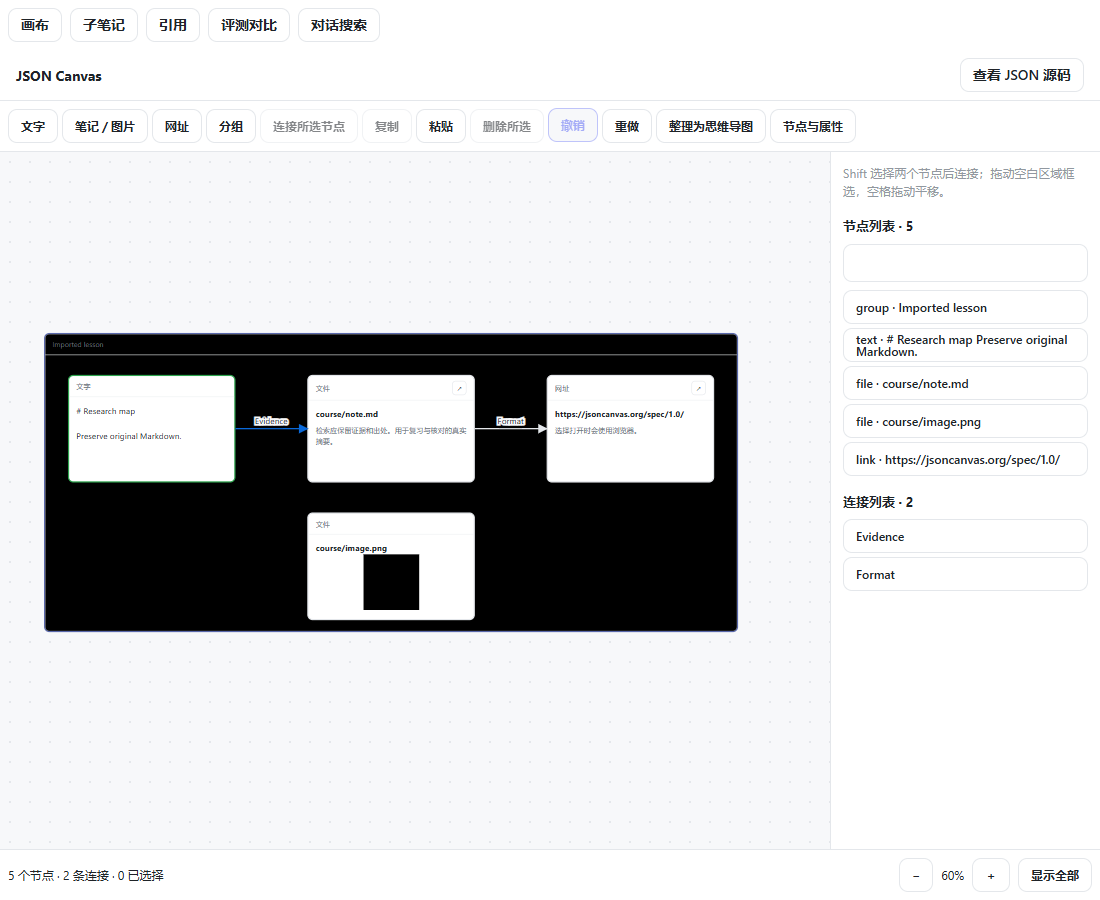
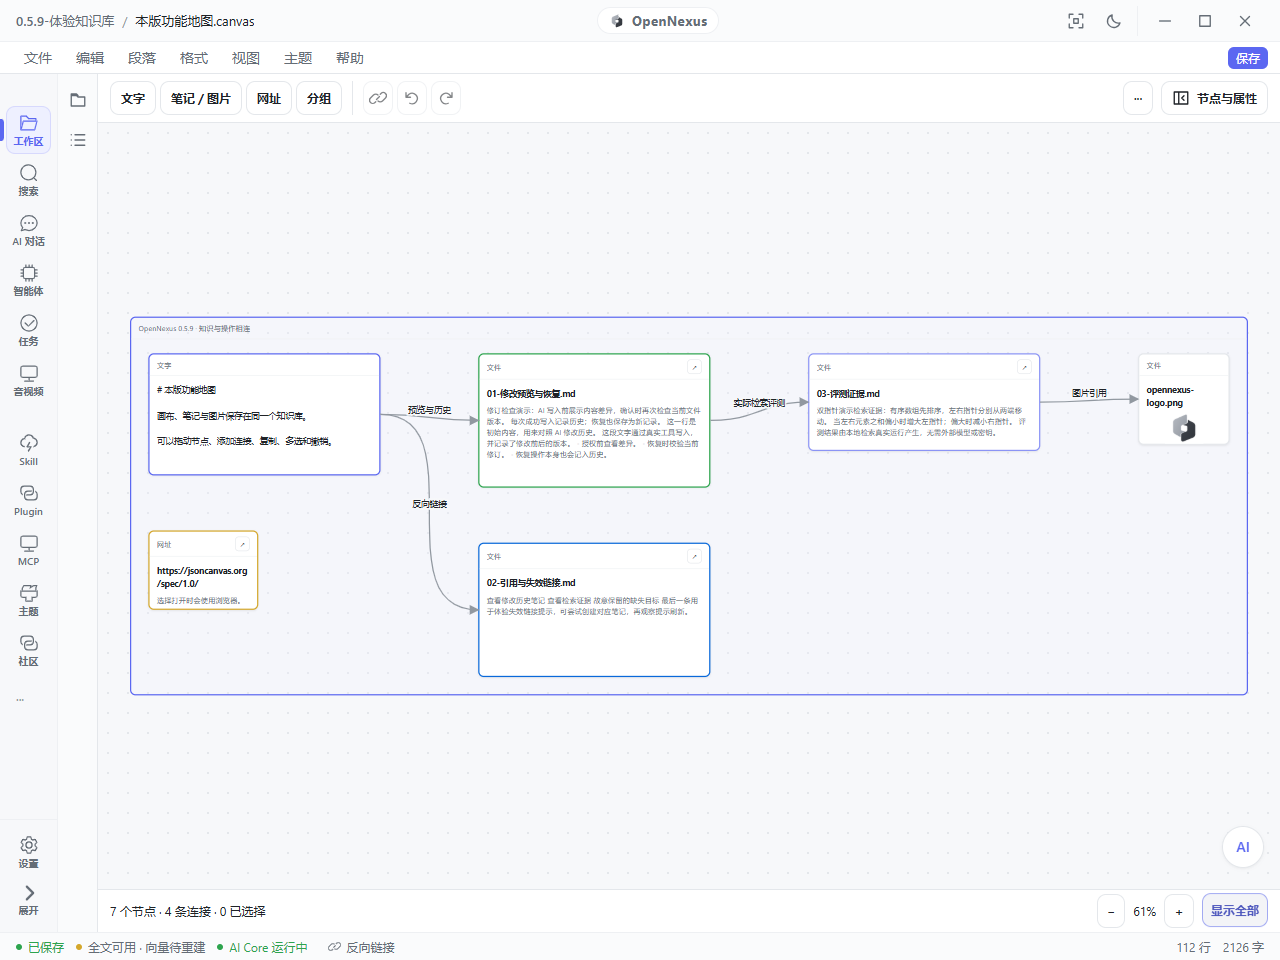
Refresh README screenshots for refined workspace UI

diff --git a/README.md b/README.md
@@ -36,7 +36,7 @@
 > ⚠ **Alpha Notice**: OpenNexus is currently in active alpha (`v0.5.9-alpha`). Storage schemas, IPC contracts, and extension APIs are evolving. Always back up critical Markdown vaults before updating.
 
 <div align="center">
-  <img src=".github/assets/opennexus-workspace.png" alt="OpenNexus editor toolbar, outline, formulas, and Mermaid diagram" width="95%" />
+  <img src=".github/assets/opennexus-workspace.png" alt="OpenNexus desktop editor with compact file controls, outline, formulas, and a function plot" width="95%" />
 </div>
 
 <table align="center">
@@ -53,12 +53,15 @@
     <td width="50%"><img src=".github/assets/opennexus-themes.png" alt="Themes and editor appearance" /></td>
   </tr>
   <tr>
-    <td width="50%"><img src=".github/assets/opennexus-canvas.png" alt="JSON Canvas editing, file nodes, groups, and connections using example data" /></td>
-    <td width="50%"><img src=".github/assets/opennexus-folder.png" alt="Folder introduction and child-note list using example data" /></td>
+    <td width="50%"><img src=".github/assets/opennexus-canvas.png" alt="Current Demo: JSON Canvas with a compact toolbar, file nodes, groups, connections, and a collapsible inspector" /></td>
+    <td width="50%"><img src=".github/assets/opennexus-folder.png" alt="Current Demo: folder cards with Markdown note titles and summaries" /></td>
   </tr>
   <tr>
     <td width="50%"><img src=".github/assets/opennexus-note-review.png" alt="Reviewing an AI note change before approval using example data" /></td>
     <td width="50%"><img src=".github/assets/opennexus-benchmark-comparison.png" alt="Comparing benchmark metrics and individual cases using example data" /></td>
+  </tr>
+  <tr>
+    <td colspan="2" align="center"><img src=".github/assets/opennexus-backlinks.png" alt="Current Demo: backlinks opened from the bottom status bar in a dialog" width="80%" /></td>
   </tr>
 </table>
 
@@ -201,7 +204,11 @@ flowchart LR
 
 ### 5. Explore a Vault and Compare Results
 
-Select a folder for its introduction and direct child notes. Use backlinks to find referring notes and Canvas nodes; review unresolved links and proposed reference edits before moving files. A `.canvas` file opens in the visual editor, with an editable JSON view for inspecting its source. The mind-map command changes the layout and can be undone.
+Select a folder for its introduction and direct child notes. Click **Backlinks** beside the AI Core status in the bottom bar to open a dialog with incoming references and broken vault links. Reference entries locate their source note or Canvas node; review proposed reference edits before moving files.
+
+A `.canvas` file opens in the visual editor. Toggle **Nodes and properties** to show or hide the right inspector; this choice is remembered. **More canvas actions (···)** contains copy, paste, deletion, mind-map layout, and **View JSON source**. The mind-map command changes the layout and can be undone.
+
+On desktop, the title bar identifies the current file, while Save and Markdown editing modes sit beside the application menus. Extension commands are available under **Edit → Extension commands**.
 
 Search a saved conversation to locate a message or visible operation. In **Benchmark**, import a dataset for the current vault, run it more than once, and select a baseline and candidate under **Run comparison**. Comparable runs must be completed and share their dataset content hash; unavailable metrics stay missing. Run records and reports survive app restarts.
 

diff --git a/README.zh-CN.md b/README.zh-CN.md
@@ -35,7 +35,7 @@
 > ⚠ **Alpha 阶段提示**：OpenNexus 目前处于早期测试阶段（`v0.5.9-alpha`）。数据存储 Schema、IPC 契约及扩展接口仍可能调整。在升级新版本前，请务必备份关键的 Markdown 知识库（Vault）。
 
 <div align="center">
-  <img src=".github/assets/opennexus-workspace.png" alt="OpenNexus 编辑器工具栏、大纲、公式与 Mermaid 图表" width="95%" />
+  <img src=".github/assets/opennexus-workspace.png" alt="OpenNexus 桌面编辑器：精简文件操作、大纲、公式与函数图" width="95%" />
 </div>
 <table align="center">
   <tr>
@@ -51,12 +51,15 @@
     <td width="50%"><img src=".github/assets/opennexus-themes.png" alt="主题与编辑器外观配置" /></td>
   </tr>
   <tr>
-    <td width="50%"><img src=".github/assets/opennexus-canvas.png" alt="示例数据：JSON Canvas 编辑、文件节点、分组与连线" /></td>
-    <td width="50%"><img src=".github/assets/opennexus-folder.png" alt="示例数据：文件夹导言与子笔记列表" /></td>
+    <td width="50%"><img src=".github/assets/opennexus-canvas.png" alt="新版 Demo：精简画布工具栏、文件节点、分组、连线与可收起的节点栏" /></td>
+    <td width="50%"><img src=".github/assets/opennexus-folder.png" alt="新版 Demo：文件夹卡片、Markdown 笔记标题与摘要" /></td>
   </tr>
   <tr>
     <td width="50%"><img src=".github/assets/opennexus-note-review.png" alt="示例数据：授权前核对 AI 笔记修改差异" /></td>
     <td width="50%"><img src=".github/assets/opennexus-benchmark-comparison.png" alt="示例数据：评测指标与逐用例结果对比" /></td>
+  </tr>
+  <tr>
+    <td colspan="2" align="center"><img src=".github/assets/opennexus-backlinks.png" alt="新版 Demo：从底部状态栏打开反向链接弹窗" width="80%" /></td>
   </tr>
 </table>
 
@@ -199,7 +202,11 @@ flowchart LR
 
 ### 5. 浏览知识库与比较评测结果
 
-选择文件夹可查看导言和直接子笔记。反向链接能定位引用来源的笔记或画布节点；移动文件前，可审核失效链接与建议的引用改写。`.canvas` 文件会打开可视化编辑器，也可切换到可编辑的 JSON 源码；思维导图整理只改变布局，并可撤销。
+选择文件夹可查看导言和直接子笔记。点击底部状态栏中 AI Core 状态旁的“反向链接”，会弹窗显示当前文件的反向链接和知识库失效链接。点击引用可定位来源笔记或画布节点；移动文件前，可审核建议的引用改写。
+
+`.canvas` 文件会打开可视化编辑器。点击“节点与属性”可显示或隐藏右侧节点栏，应用会记住选择。“更多画布操作（···）”提供复制、粘贴、删除、思维导图整理和“查看 JSON 源码”。思维导图整理只改变布局，并可撤销。
+
+桌面版由顶部标题栏显示当前文件，保存按钮和 Markdown 编辑模式位于应用菜单右侧。扩展命令从“编辑 → 扩展命令”进入。
 
 在已保存的会话中搜索，可以定位消息正文或可见操作。在 **Benchmark** 导入当前知识库的专属数据集，完成多次运行，再从“运行对比”选择基线与候选。直接比较要求两次运行均已完成且数据集内容哈希相同；无法计算的指标按缺失显示。应用重启后，运行记录与完整报告仍可读取。
 
